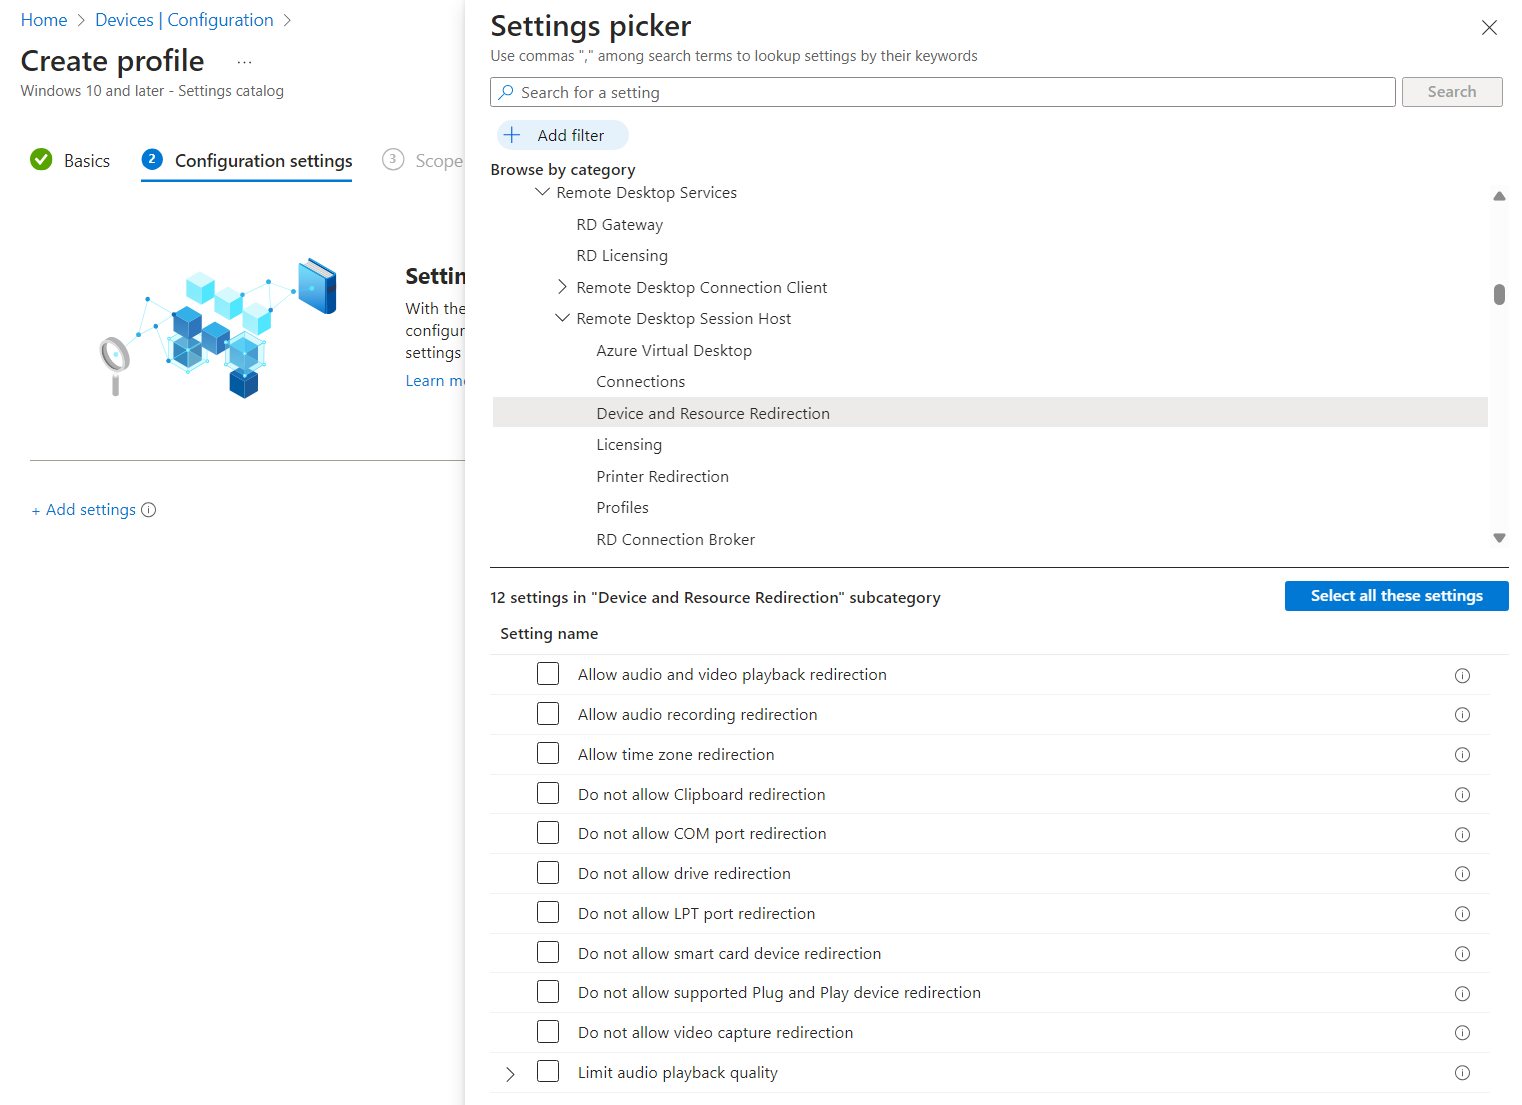
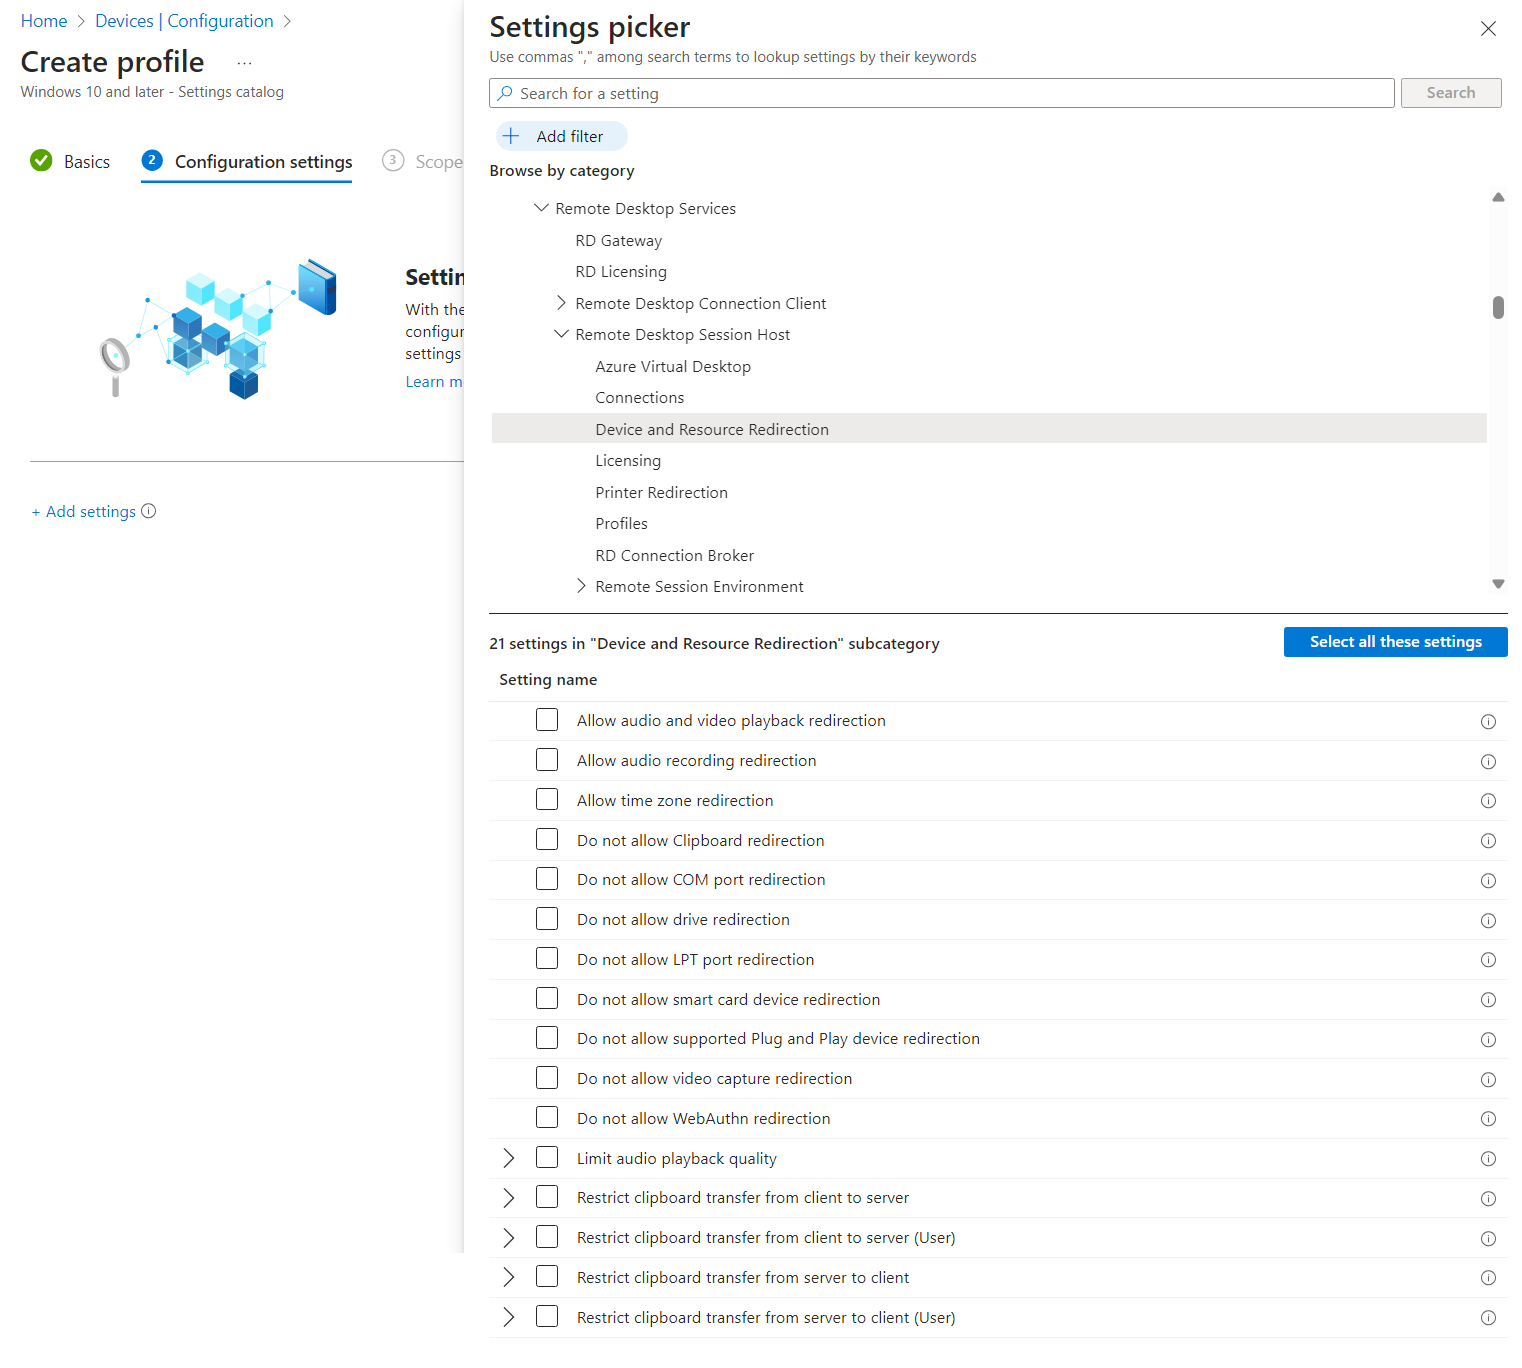
AVD WebAuthn redirection settings catalog

diff --git a/virtual-desktop/redirection-configure-webauthn.md b/virtual-desktop/redirection-configure-webauthn.md
@@ -138,17 +138,19 @@ To allow or disable WebAuthn redirection using Microsoft Intune:
 
 1. Sign in to the [Microsoft Intune admin center](https://endpoint.microsoft.com/).
 
-1. [Create or edit a configuration profile](/mem/intune/configuration/administrative-templates-windows) for **Windows 10 and later** devices, with the **Templates** profile type, and the **Administrative templates** template.
+1. [Create or edit a configuration profile](/mem/intune/configuration/administrative-templates-windows) for **Windows 10 and later** devices, with the **Settings catalog** profile type.
 
-1. In the **Configuration settings** tab, browse to **Computer configuration** > **Windows Components** > **Remote Desktop Services** > **Remote Desktop Session Host** > **Device and Resource Redirection**, then select **Do not allow WebAuthn redirection**.
+1. In the settings picker, browse to **Administrative templates** > **Windows Components** > **Remote Desktop Services** > **Remote Desktop Session Host** > **Device and Resource Redirection**.
 
-   :::image type="content" source="media/redirection-remote-desktop-protocol/redirection-configuration-intune-template-webauthn.png" alt-text="A screenshot showing the device and resource redirection options in the Microsoft Intune portal." lightbox="media/redirection-remote-desktop-protocol/redirection-configuration-intune-template-webauthn.png":::
+   :::image type="content" source="media/redirection-remote-desktop-protocol/redirection-configuration-intune.png" alt-text="A screenshot showing the device and resource redirection options in the Microsoft Intune portal." lightbox="media/redirection-remote-desktop-protocol/redirection-configuration-intune.png":::
 
-1. Select **Do not allow WebAuthn redirection**. In the pane separate pane that opens:
+1. Check the box for **Do not allow WebAuthn redirection**, then close the settings picker.
 
-   - To allow WebAuthn redirection, select **Disabled** or **Not configured**, then select **OK**. 
+1. Expand the **Administrative templates** category, then toggle the switch for **Do not allow WebAuthn redirection** to **Enabled** or **Disabled**, depending on your requirements:
 
-   - To disable WebAuthn redirection, select **Enabled**, then select **OK**.
+   - To allow WebAuthn redirection, toggle the switch to **Disabled**, then select **OK**.
+
+   - To disable WebAuthn redirection, toggle the switch to **Enabled**, then select **OK**.
 
 1. Select **Next**.
 
